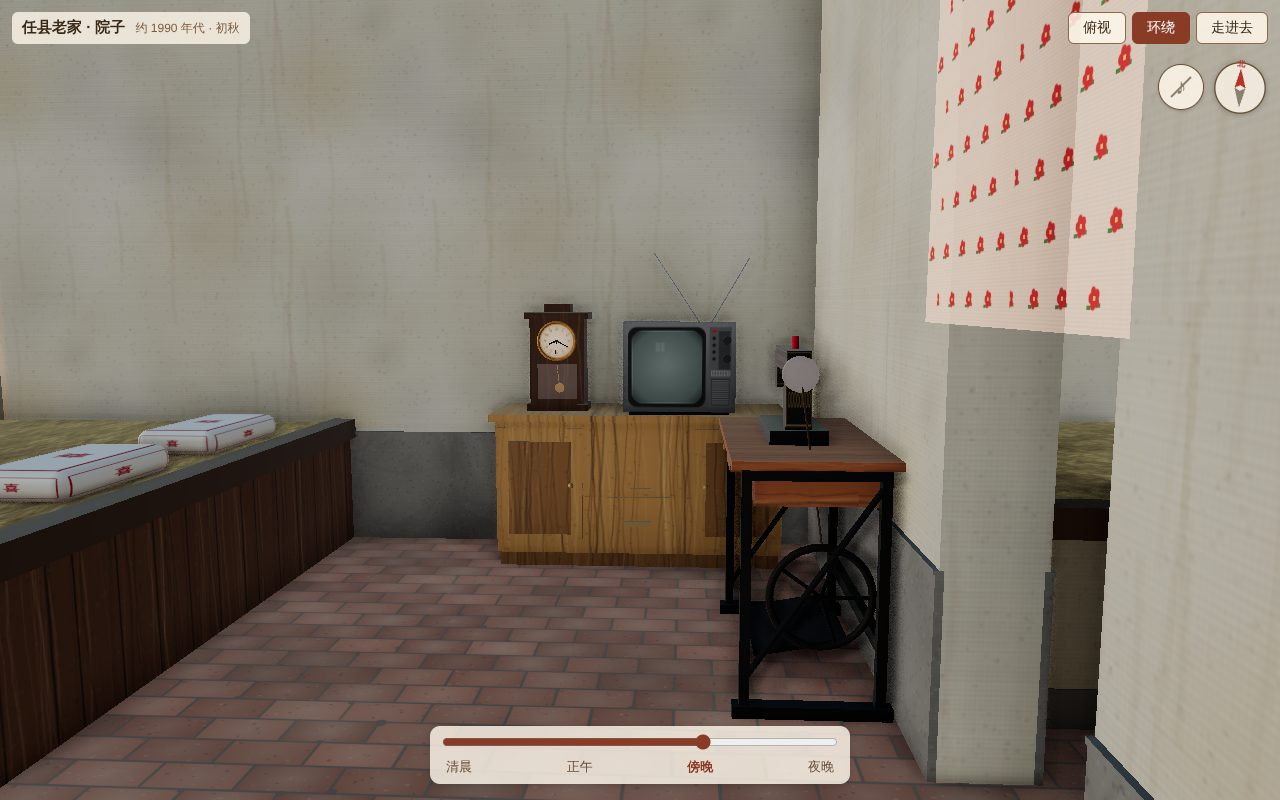
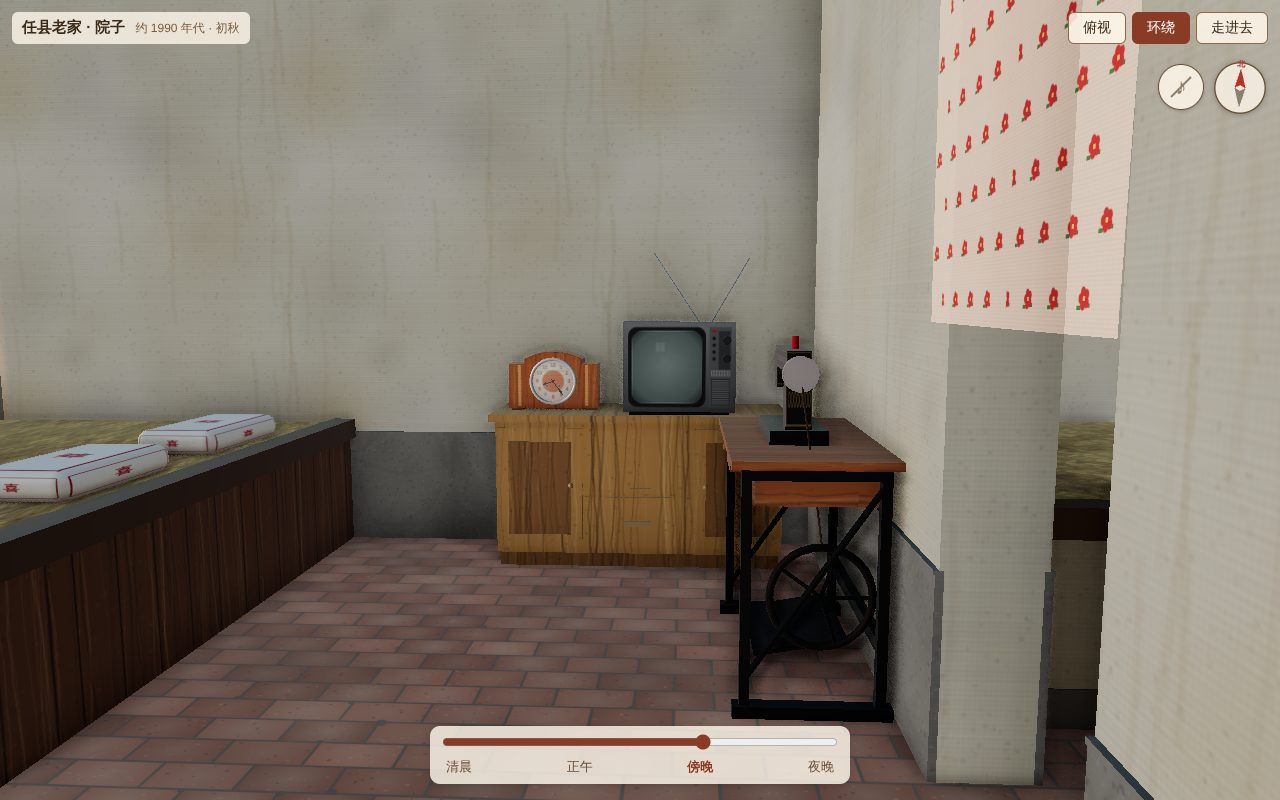
外屋座钟按用户照片改：横放木壳、拱顶、两边镶条立柱、镀铬大钟面
- 中间拱顶的壳用挤出形状做，两边立柱镶浅色人字纹木条，底下小脚
- 钟面：外圈银白、黑色阿拉伯数字和分钟点，中间一圈露木头、两个上弦孔；镀铬圈、凸玻璃、黑色尖头指针（走现在的时间）
- 去掉了原来猜的摆锤
- 更新 spec、CLAUDE.md、截图

Claude-Session: https://claude.ai/code/session_01HJLasCaBTePKwEqSFahTsZ

diff --git a/src/interiors/northWestOuter.js b/src/interiors/northWestOuter.js
@@ -7,7 +7,7 @@ import { canvasTex, rng, reedMat, pillowTex, quiltStack, woodTex, seamlessBlob }
 /**
  * 西北屋外屋的陈设（第 11 轮，按用户描述和照片）。坐标同 northWest.js：室内原点在西北角、地坪面，+x 东、+z 南。
  * - 西边一铺大木头炕，南北通长；炕沿朝外这一面摆着一排枕头，靠西墙摞着棉被
- * - 进门正对着、靠北墙一张老式电视桌，上面一台黑白电视（拉杆天线），电视左边一座带摆锤的老座钟（指针走的是现在的时间）
+ * - 进门正对着、靠北墙一张老式电视桌，上面一台黑白电视（拉杆天线），电视左边一座老座钟（按用户照片：横放木壳、拱顶、两边镶条立柱，指针走的是现在的时间）
  * - 靠南墙一张折叠圆桌：深色桌面、斑驳，铁管腿生了锈
  * - 进门右手边（隔墙这边）一个洗脸盆架，上面一只搪瓷洋盆，架子上搭着毛巾
  * - 隔墙边、里屋门洞往北一点一台脚踏缝纫机
@@ -80,44 +80,89 @@ function tvFaceTex() {
   });
 }
 
-/** 座钟的钟面：白底、黑色阿拉伯数字、分钟刻度，铜圈 */
+/** 座钟钟面（按用户照片）：外圈银白、黑色阿拉伯数字和分钟点，中间一圈露出木头，两个上弦孔 */
 function clockFaceTex() {
-  return canvasTex(256, 256, (g, w, h) => {
+  return canvasTex(256, 256, (g, w) => {
     const c = w / 2;
-    g.fillStyle = '#b08a48';
+    const r = rng(107);
+    // 外圈：银白
+    const sg = g.createRadialGradient(c - 30, c - 30, 10, c, c, 128);
+    sg.addColorStop(0, '#f2f0ea');
+    sg.addColorStop(1, '#c8c6be');
+    g.fillStyle = sg;
     g.beginPath();
-    g.arc(c, c, 127, 0, Math.PI * 2);
+    g.arc(c, c, 128, 0, Math.PI * 2);
     g.fill();
-    g.fillStyle = '#f2ecdc';
+    // 中间露出的木头
+    g.fillStyle = '#c4703a';
     g.beginPath();
-    g.arc(c, c, 112, 0, Math.PI * 2);
+    g.arc(c, c, 66, 0, Math.PI * 2);
     g.fill();
-    g.strokeStyle = '#2a2420';
-    for (let i = 0; i < 60; i++) {
-      const a = (i / 60) * Math.PI * 2;
-      const l = i % 5 ? 6 : 12;
-      g.lineWidth = i % 5 ? 1.5 : 3;
+    for (let i = 0; i < 30; i++) {
+      g.strokeStyle = `rgba(${r() > 0.5 ? '120,56,20' : '230,150,90'},0.25)`;
+      g.lineWidth = 1 + r() * 2;
+      const y = c - 66 + r() * 132;
       g.beginPath();
-      g.moveTo(c + Math.sin(a) * 104, c - Math.cos(a) * 104);
-      g.lineTo(c + Math.sin(a) * (104 - l), c - Math.cos(a) * (104 - l));
+      g.moveTo(c - 66, y);
+      g.quadraticCurveTo(c, y + (r() - 0.5) * 20, c + 66, y);
       g.stroke();
     }
-    g.fillStyle = '#2a2420';
-    g.font = 'bold 24px serif';
+    g.strokeStyle = '#9a9890';
+    g.lineWidth = 2;
+    g.beginPath();
+    g.arc(c, c, 66, 0, Math.PI * 2);
+    g.stroke();
+    // 分钟点
+    g.fillStyle = '#2a2622';
+    for (let i = 0; i < 60; i++) {
+      if (i % 5 === 0) continue;
+      const a = (i / 60) * Math.PI * 2;
+      g.beginPath();
+      g.arc(c + Math.sin(a) * 118, c - Math.cos(a) * 118, 1.8, 0, Math.PI * 2);
+      g.fill();
+    }
+    // 数字
+    g.font = 'bold 30px Arial, sans-serif';
     g.textAlign = 'center';
     g.textBaseline = 'middle';
     for (let i = 1; i <= 12; i++) {
       const a = (i / 12) * Math.PI * 2;
-      g.fillText(String(i), c + Math.sin(a) * 80, c - Math.cos(a) * 80);
+      g.fillText(String(i), c + Math.sin(a) * 96, c - Math.cos(a) * 96);
     }
-    // 发黄
-    const yel = g.createRadialGradient(c, c, 30, c, c, 115);
-    yel.addColorStop(0, 'rgba(200,170,110,0)');
-    yel.addColorStop(1, 'rgba(200,170,110,0.25)');
-    g.fillStyle = yel;
-    g.beginPath();
-    g.arc(c, c, 112, 0, Math.PI * 2);
-    g.fill();
+    // 两个上弦孔（4 点和 8 点方向）
+    for (const sx of [-1, 1]) {
+      g.fillStyle = '#b8b8b4';
+      g.beginPath();
+      g.arc(c + sx * 38, c + 28, 11, 0, Math.PI * 2);
+      g.fill();
+      g.fillStyle = '#141414';
+      g.beginPath();
+      g.arc(c + sx * 38, c + 28, 7, 0, Math.PI * 2);
+      g.fill();
+    }
+  });
+}
+
+/** 座钟两边立柱上镶的浅色人字纹木条 */
+function inlayTex() {
+  return canvasTex(32, 256, (g, w, h) => {
+    g.fillStyle = '#c88a4a';
+    g.fillRect(0, 0, w, h);
+    for (let y = -16; y < h; y += 14) {
+      g.fillStyle = '#e8c890';
+      g.beginPath();
+      g.moveTo(4, y);
+      g.lineTo(w / 2, y + 8);
+      g.lineTo(w - 4, y);
+      g.lineTo(w - 4, y + 5);
+      g.lineTo(w / 2, y + 13);
+      g.lineTo(4, y + 5);
+      g.closePath();
+      g.fill();
+    }
+    g.fillStyle = '#7a4420';
+    g.fillRect(0, 0, 3, h);
+    g.fillRect(w - 3, 0, 3, h);
   });
 }
 
@@ -329,49 +374,79 @@ export function createOuterRoom({ tc }) {
     tube(tv, V3(0.12, 0.36, -0.04), V3(0.32, 0.7, -0.1), 0.003, chrome, 5);
     group.add(tv);
 
-    // 电视左边一座老座钟：木壳、铜圈钟面、玻璃门里一个摆锤
+    // 电视左边一座老座钟（按用户照片）：横放的木壳，中间一块拱顶，两边两根立柱镶着浅色人字纹木条，
+    // 正中一个大圆钟面、镀铬的圈、凸玻璃；钟面中间一圈露出木头，两个上弦孔
     const clock = new THREE.Group();
-    clock.position.set(D.x - 0.38, D.h, (z0 + z1) / 2);
-    const walnut = new THREE.MeshStandardMaterial({ map: woodTex([84, 48, 26], { seed: 13 }), roughness: 0.4 });
-    clock.add(box(-0.14, 0.14, 0, 0.03, -0.075, 0.075, walnut, off)); // 底座
-    clock.add(box(-0.125, 0.125, 0.03, 0.42, -0.065, 0.065, walnut, off)); // 壳
-    clock.add(box(-0.145, 0.145, 0.42, 0.45, -0.08, 0.08, walnut, off)); // 顶
-    clock.add(box(-0.06, 0.06, 0.45, 0.49, -0.05, 0.05, walnut, off)); // 顶上的小帽
-    const face = new THREE.Mesh(new THREE.CircleGeometry(0.085, 32), new THREE.MeshStandardMaterial({ map: clockFaceTex(), roughness: 0.5 }));
-    face.position.set(0, 0.32, 0.067);
+    clock.position.set(D.x - 0.4, D.h, (z0 + z1) / 2 - 0.01);
+    const cwood = new THREE.MeshStandardMaterial({ map: woodTex([196, 108, 50], { seed: 13 }), roughness: 0.32 });
+    const CD = 0.13; // 进深
+    // 中间拱顶的壳：沿 z 挤出
+    const shape = new THREE.Shape();
+    shape.moveTo(-0.13, 0.012);
+    shape.lineTo(0.13, 0.012);
+    shape.lineTo(0.13, 0.235);
+    shape.quadraticCurveTo(0, 0.3, -0.13, 0.235);
+    shape.closePath();
+    const bodyGeo = new THREE.ExtrudeGeometry(shape, { depth: CD, bevelEnabled: true, bevelThickness: 0.004, bevelSize: 0.004, bevelSegments: 2, curveSegments: 16 });
+    bodyGeo.translate(0, 0, -CD / 2);
+    // 挤出体的 UV 是按坐标来的（米），正好配世界坐标的木纹
+    const body = new THREE.Mesh(bodyGeo, cwood);
+    body.castShadow = body.receiveShadow = true;
+    clock.add(body);
+    // 两边的立柱 + 镶条 + 小脚
+    const inlay = new THREE.MeshStandardMaterial({ map: inlayTex(), roughness: 0.35 });
+    for (const sx of [-1, 1]) {
+      clock.add(box(sx > 0 ? 0.13 : -0.205, sx > 0 ? 0.205 : -0.13, 0.012, 0.215, -CD / 2 + 0.005, CD / 2 + 0.006, cwood, off));
+      const strip = new THREE.Mesh(new THREE.PlaneGeometry(0.018, 0.19), inlay);
+      strip.position.set(sx * 0.155, 0.115, CD / 2 + 0.0075);
+      clock.add(strip);
+      clock.add(box(sx * 0.17 - 0.025, sx * 0.17 + 0.025, 0, 0.012, -CD / 2 + 0.01, CD / 2 - 0.01, new THREE.MeshStandardMaterial({ color: 0x8a6a4a, roughness: 0.7 }), off));
+    }
+    // 钟面、镀铬圈、凸玻璃
+    const fc = new THREE.Vector3(0, 0.135, CD / 2 + 0.006);
+    const face = new THREE.Mesh(new THREE.CircleGeometry(0.098, 48), new THREE.MeshStandardMaterial({ map: clockFaceTex(), roughness: 0.45 }));
+    face.position.copy(fc);
     clock.add(face);
-    const brass = new THREE.MeshStandardMaterial({ color: 0xc09850, roughness: 0.3, metalness: 0.85 });
-    const bezel = new THREE.Mesh(new THREE.TorusGeometry(0.086, 0.006, 6, 32), brass);
-    bezel.position.copy(face.position);
+    const chromeM = new THREE.MeshStandardMaterial({ color: 0xd8d8d4, roughness: 0.18, metalness: 0.95 });
+    const bezel = new THREE.Mesh(new THREE.TorusGeometry(0.102, 0.008, 8, 48), chromeM);
+    bezel.position.copy(fc);
     clock.add(bezel);
+    const dome = new THREE.Mesh(
+      new THREE.SphereGeometry(0.4, 32, 8, 0, Math.PI * 2, 0, Math.asin(0.1 / 0.4)),
+      new THREE.MeshStandardMaterial({ color: 0xffffff, roughness: 0.04, metalness: 0.6, transparent: true, opacity: 0.16 }),
+    );
+    dome.rotation.x = Math.PI / 2;
+    dome.position.set(fc.x, fc.y, fc.z - 0.4 * Math.cos(Math.asin(0.1 / 0.4)) + 0.002);
+    dome.userData.noAO = true;
+    clock.add(dome);
+    // 侧面的小把手（开表蒙子的搭扣）
+    const latch = new THREE.Mesh(new THREE.BoxGeometry(0.008, 0.03, 0.01), chromeM);
+    latch.position.set(-0.108, fc.y, fc.z + 0.004);
+    clock.add(latch);
+    // 黑色的尖头指针
+    const handMat = new THREE.MeshStandardMaterial({ color: 0x141210, roughness: 0.4, metalness: 0.3 });
     const hand = (len, wd) => {
+      const sh = new THREE.Shape();
+      sh.moveTo(-wd * 0.3, -0.012);
+      sh.lineTo(wd * 0.3, -0.012);
+      sh.lineTo(wd * 0.3, len * 0.6);
+      sh.lineTo(wd, len * 0.72);
+      sh.lineTo(0, len);
+      sh.lineTo(-wd, len * 0.72);
+      sh.lineTo(-wd * 0.3, len * 0.6);
+      sh.closePath();
       const pv = new THREE.Group();
-      const m = new THREE.Mesh(new THREE.BoxGeometry(wd, len, 0.002).translate(0, len / 2 - 0.008, 0), new THREE.MeshStandardMaterial({ color: 0x1a1612, roughness: 0.5 }));
-      pv.add(m);
-      pv.position.set(0, 0.32, 0.07);
+      pv.add(new THREE.Mesh(new THREE.ShapeGeometry(sh), handMat));
+      pv.position.set(fc.x, fc.y, fc.z + 0.004);
       clock.add(pv);
       return pv;
     };
-    clockParts.hour = hand(0.045, 0.007);
-    clockParts.minute = hand(0.068, 0.005);
-    clockParts.second = hand(0.072, 0.0015);
-    clockParts.second.position.z = 0.072;
-    // 下半截：玻璃门里的摆锤
-    const win = new THREE.Mesh(new THREE.PlaneGeometry(0.17, 0.15), new THREE.MeshStandardMaterial({ color: 0x1e1612, roughness: 0.9 }));
-    win.position.set(0, 0.135, 0.06);
-    clock.add(win);
-    const pend = new THREE.Group();
-    pend.position.set(0, 0.21, 0.064);
-    const rod = new THREE.Mesh(new THREE.BoxGeometry(0.004, 0.1, 0.002).translate(0, -0.05, 0), brass);
-    const bob = new THREE.Mesh(new THREE.CylinderGeometry(0.022, 0.022, 0.004, 20).rotateX(Math.PI / 2), brass);
-    bob.position.y = -0.105;
-    pend.add(rod, bob);
-    clock.add(pend);
-    clockParts.pendulum = pend;
-    const pane = new THREE.Mesh(new THREE.PlaneGeometry(0.18, 0.16), new THREE.MeshStandardMaterial({ color: 0xffffff, roughness: 0.05, metalness: 0.5, transparent: true, opacity: 0.12 }));
-    pane.position.set(0, 0.135, 0.068);
-    pane.userData.noAO = true;
-    clock.add(pane);
+    clockParts.hour = hand(0.05, 0.007);
+    clockParts.minute = hand(0.078, 0.006);
+    clockParts.minute.position.z += 0.001;
+    const hub = new THREE.Mesh(new THREE.CylinderGeometry(0.006, 0.006, 0.006, 12).rotateX(Math.PI / 2), handMat);
+    hub.position.set(fc.x, fc.y, fc.z + 0.007);
+    clock.add(hub);
     group.add(clock);
   }
 
@@ -532,7 +607,7 @@ export function createOuterRoom({ tc }) {
   return {
     group,
     update(dt, t) {
-      const { hour, minute, second, pendulum } = clockParts;
+      const { hour, minute } = clockParts;
       now.setTime(Date.now());
       const s = now.getSeconds() + now.getMilliseconds() / 1000;
       const m = now.getMinutes() + s / 60;
@@ -540,8 +615,6 @@ export function createOuterRoom({ tc }) {
       // 钟面朝 +z：指针绕 z 轴转（顺时针为负）
       hour.rotation.z = -(h / 12) * Math.PI * 2;
       minute.rotation.z = -(m / 60) * Math.PI * 2;
-      second.rotation.z = -(Math.floor(s) / 60) * Math.PI * 2;
-      pendulum.rotation.z = Math.sin(t * Math.PI) * 0.12; // 一秒摆一下
     },
   };
 }

diff --git a/CLAUDE.md b/CLAUDE.md
@@ -87,7 +87,7 @@ src/
     interact.js         走近时出现大按钮（压水/摘石榴/打枣/荡秋千/摸摸大黄/里屋拉灯），按 E 执行第一个；直接点画面会选点击处 90 像素内够得着的目标；“兜里”计数
   interiors/            室内细节，见 interiors/README.md；挂在 interior-anchor-* 上，尺寸在 layout.WEST_ROOM 等（室内坐标）
     common.js           室内共用：canvasTex、rng、seamlessBlob、炕席、被面、枕头、一摞被子 quiltStack、木纹 woodTex、海报
-    northWestOuter.js   西北屋外屋陈设（尺寸在 WEST_ROOM.outer）：大木头炕（枕头朝外、靠墙摞被）、电视桌 + 黑白电视（拉杆天线）+ 座钟（指针走现在的时间、摆锤摆）、斑驳圆桌、洗脸盆架 + 搪瓷洋盆 + 毛巾、脚踏缝纫机
+    northWestOuter.js   西北屋外屋陈设（尺寸在 WEST_ROOM.outer）：大木头炕（枕头朝外、靠墙摞被）、电视桌 + 黑白电视（拉杆天线）+ 座钟（按用户照片：横放木壳、拱顶、镶条立柱，指针走现在的时间）、斑驳圆桌、洗脸盆架 + 搪瓷洋盆 + 毛巾、脚踏缝纫机
     northWest.js        西北屋：隔墙分外屋（六）/里屋（四），门洞白布门帘（顶点动画，人走近被撩开）；墙面旧大白 + 墙根 0.55 m 水泥墙裙（finish() 给每面墙贴两层，外屋也用）、磨旧淡红砖地面；里屋的炕（东西两头顶墙，炕席、炕沿；中间试过竹床、木头床，用户都否了）、被子、拉线开关 + 15 瓦灯泡（lamp.pull() 开关，高画质点光源带阴影）、隔墙上三张画的女明星海报、西南角水缸（复用 yard/waterVat.js）、两台做蜡烛的器具（按用户照片）+ 煤球炉、熏黑的南墙（窗洞处挖空）和顶棚
   ui/                   样式；timeSlider.js 时间滑块；hud.js 提示/操作说明/兜里计数/准星；compass.js 指北针；musicButton.js 音乐开关（指北针左边，偏好存在 localStorage 'laojia-bgm-v2'）
 scripts/
@@ -136,7 +136,7 @@ docs/
 
 之后的迭代（各屋室内）：先改 docs/scene-spec.md，室内放 src/interiors/，挂到 interior-anchor-* 上；每次改完照旧截图自检、开 PR。
 
-第 11 轮：西北屋外屋陈设（木板门、电视桌/黑白电视/座钟、大木头炕、圆桌、洗脸盆架、缝纫机）。座钟用户说附了照片但没收到，先做成摆锤座钟。
+第 11 轮：西北屋外屋陈设（木板门、电视桌/黑白电视/座钟、大木头炕、圆桌、洗脸盆架、缝纫机）。座钟后来按用户补发的照片改成横放的拱顶木壳座钟。
 
 第 10 轮：西北屋室内第一部分（隔墙分外屋/里屋六四开、门帘、旧大白墙 + 水泥墙裙、旧砖地；里屋的炕/被子/拉线开关灯/海报/水缸/做蜡烛的器具/熏黑的南墙、南窗）。东北屋、厨房室内还没做。
 

diff --git a/docs/scene-spec.md b/docs/scene-spec.md
@@ -155,7 +155,7 @@
 - **屋门**：老式木板门（按用户照片）：两扇本色竖木板拼的门，刷过桐油、发黄发暗，板缝发黑、下半截更黑；屋里那面钉着上下两道横穿带，左扇一根木门闩和竖把手，右扇一个门闩插座；外面仍贴倒福、两边春联。门向屋里开着
 - **进门正对着、靠北墙：老式电视桌**（参考用户照片）：黄色清漆的木柜，两边各一扇柜门，中间上面一格敞口（放着一摞旧报纸）、下面一个抽屉 **【样式待确认】**
   - **桌上一台老式黑白电视**（按用户照片）：14 寸左右，灰色金属壳，圆角灰绿屏幕，右边控制面板（红指示灯、四个小按钮、两个大旋钮、刻度窗、喇叭格栅），后面一个大屁股，顶上两根拉杆天线
-  - **电视左边一座老式钟表**：用户说附了照片，但没收到；先做成带摆锤的木壳座钟（铜圈钟面、玻璃门里摆锤一秒摆一下，指针走的是现在的时间）**【待确认，等照片】**
+  - **电视左边一座老式座钟**（按用户照片）：横放的橙黄色木壳，中间一块拱顶，两边两根立柱镶着浅色人字纹木条，底下小脚；正中大圆钟面、镀铬的圈、凸玻璃，外圈银白、黑色阿拉伯数字，中间一圈露出木头、两个上弦孔；黑色尖头指针，走的是现在的时间
 - **西边一铺大木头炕，南北通长**（顶住南北墙），从西墙往东 1.8 m、高 0.6 m **【尺寸待确认】**：深色木板炕身，炕面铺炕席，炕沿一根磨亮的木头
   - **朝外的这一面（炕沿这边）放着一排枕头**（4 个）；**炕上放着棉被**：靠西墙摞着五床缎子被面的棉花被
 - **靠南墙一张圆桌**（参考用户照片的折叠圆桌）：桌面深色、斑驳（漆磨掉一块块、碗底白圈、划痕），一圈包边，铁管交叉腿生了锈；在南窗和屋门之间
